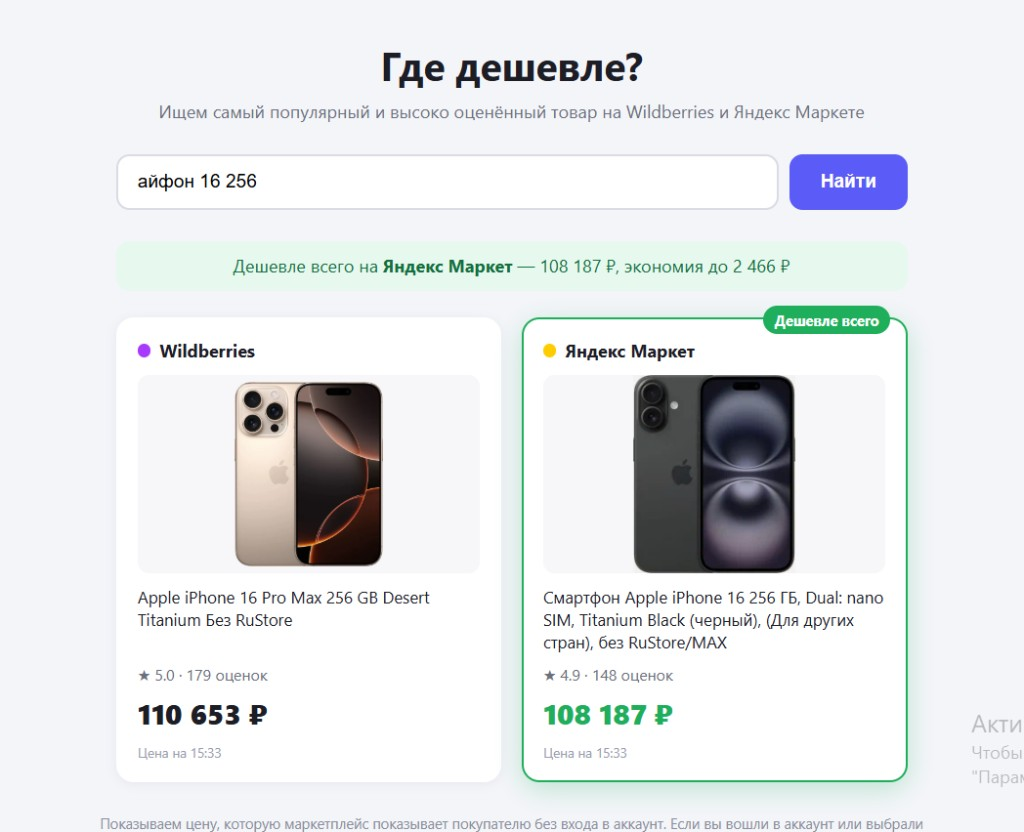
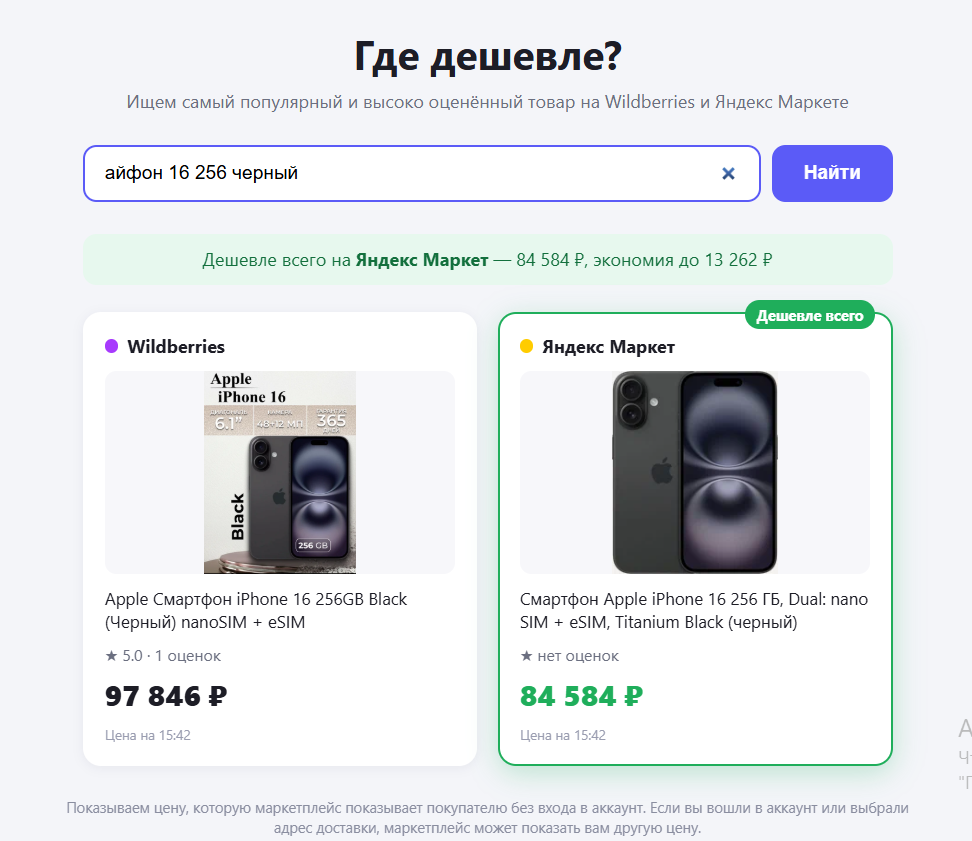
README: update screenshot

diff --git a/README.md b/README.md
@@ -2,7 +2,7 @@
 
 Сайт для сравнения цен на маркетплейсах. Вводите запрос (например, «iPhone 16», «корм для кошек», «стиральная машина») — сайт ищет товар на **Wildberries** и **Яндекс Маркете**, показывает по одному предложению с каждого и подсвечивает самое дешёвое.
 
-![Пример поиска «айфон 16 256»](docs/screenshot.png)
+![Пример поиска «айфон 16 256 черный»](docs/screenshot.png)
 
 
 ## Как выбирается предложение
